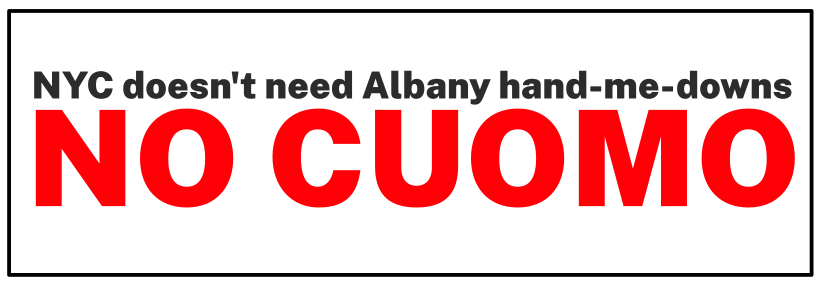
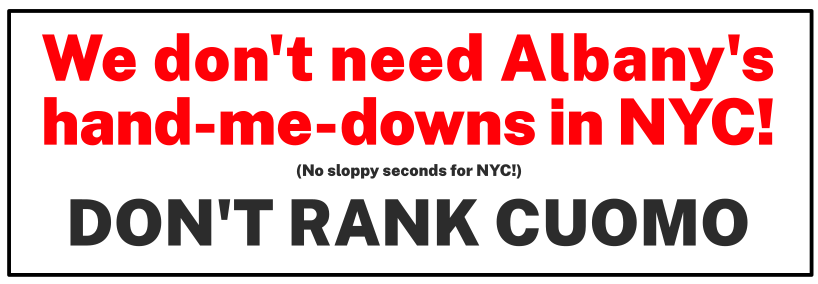
changed text to don't rank cuomo

diff --git a/README.md b/README.md
@@ -1,7 +1,7 @@
 # no-cuomo
 
 NO ALBANY HAND-ME-DOWNS FOR NYC
-NO CUOMO
+DON'T RANK CUOMO
 
 ## To edit
 * Use Inkscape
